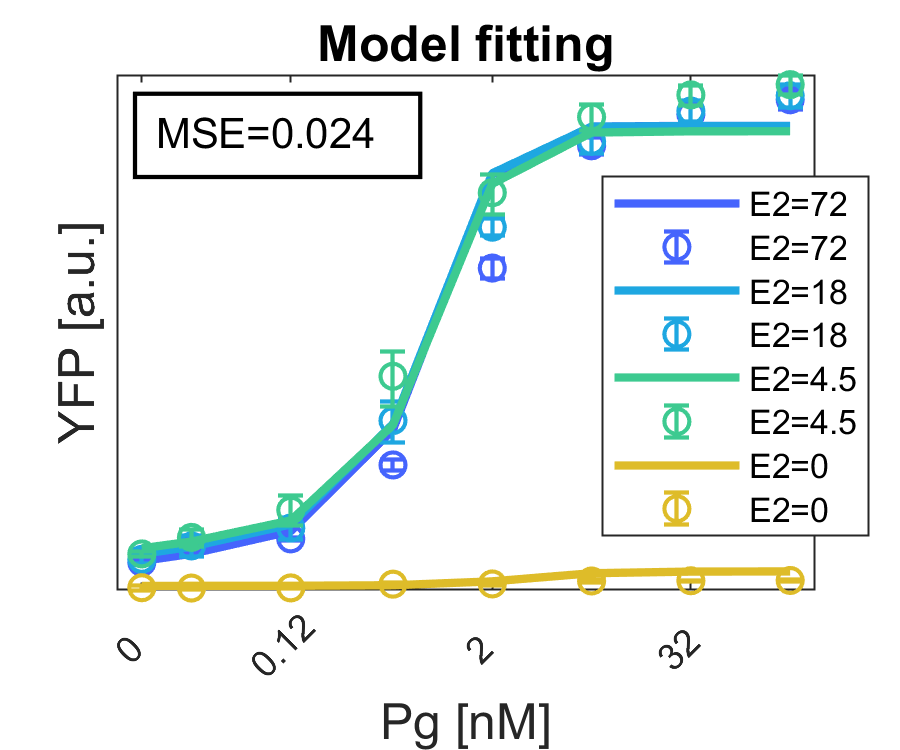
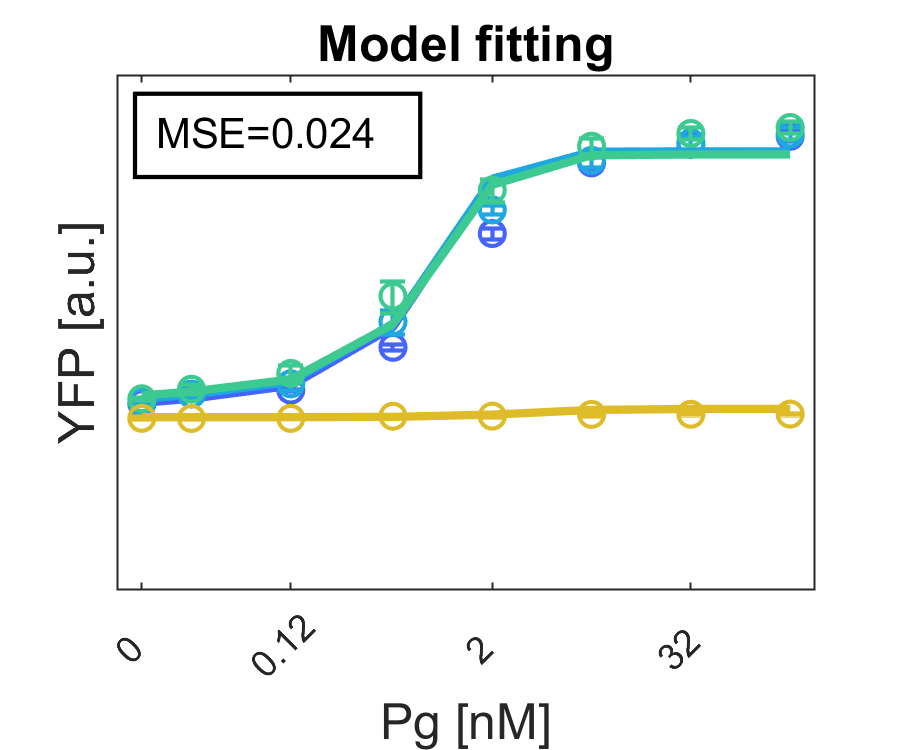
Extra figures
Parameter effect on dose response predictions.

Changed region(s): [[0.1244, 0.092, 0.9644, 0.828]]

diff --git a/FigModel_01.m b/FigModel_01.m
@@ -1,5 +1,5 @@
 clear
-load('C:\Users\mgsch\Desktop\MRW_SimpleModel_v02_h37AB.mat')
+load('MRW_SimpleModel_v02_h37AB.mat')
 
 %% Parameters & model
 [a b] = sort(minE);
@@ -28,7 +28,7 @@ end
         title(cat(2,'Model fitting'),'FontSize',12)
 %         legend('location','southeast','FontSize',12)
         xlim([min(Hi)-0.5 max(Hi)+0.5])
-%         ylim([0.005 10])
+        ylim([0.005 2])
         set(gca,'YScale','log','YGrid','on',...
             'YTick','',...
             'XTick',Hi([length(p.A_H):-2:1]),...
@@ -40,3 +40,82 @@ end
             num2str(FN_FitError(p,M,D*p.nM)/(size(D,1)*size(D,2)),2))},...
             'FitBoxToText','on','LineWidth',1,'BackgroundColor',[1 1 1],'FontSize',10);
         print(gcf,'RAW_FigModel01','-dpng','-r300')
+clear i fig C Hi
+
+%% Figure -- Parameter effect
+fig = figure();
+fig.Units = 'inches';
+fig.PaperPosition = [0 0 16 8];
+fig.Position = fig.PaperPosition;
+Hi = log2(p.A_H); Hi(length(p.A_H)) = Hi(length(Hi)-1) - 1;
+C = colormap('parula');
+delta = 2.^[-1,1];
+for j1 = 1:2
+    for j2 = 1:length(f)
+        p.(f(j2).par) = p.(f(j2).par)*delta(j1);
+        y = FN_SS_SimpleModel_v02(p);
+        
+        subplot(2,length(f),j2+(6*(j1-1)))
+        hold on;
+        for i = 1:length(p.D_H)
+            plot(Hi,y(i,:)/p.nM,'LineWidth',2,...
+                'DisplayName',cat(2,'E2=',num2str(p.D_H(i))),'Color',C(i*50,:))
+            errorbar(Hi,D(i,:),Dsd(i,:),'LineWidth',1,'LineStyle','none','Marker','o',...
+                'DisplayName',cat(2,'E2=',num2str(p.D_H(i))),'Color',C(i*50,:))
+        end
+                xlabel('Pg [nM]','FontSize',12)
+                ylabel('YFP [a.u.]','FontSize',12)
+                title(cat(2,f(j2).par,' x ',num2str(delta(j1),2),' (MSE=',...
+                    num2str(FN_FitError(p,M,D*p.nM)/(size(D,1)*size(D,2)),2),')'),...
+                    'FontSize',12)
+        %         legend('location','southeast','FontSize',12)
+                xlim([min(Hi)-0.5 max(Hi)+0.5])
+                ylim([0.005 2])
+                set(gca,'YScale','log','YGrid','on',...
+                    'YTick','',...
+                    'XTick',Hi([length(p.A_H):-2:1]),...
+                    'XTickLabel',p.A_H([length(p.A_H):-2:1]),...
+                    'XTickLabelRotation',45)
+                box on
+                
+        p.(f(j2).par) = p.(f(j2).par)/delta(j1);
+    end
+end
+print(gcf,'RAW_FigModel01_ParEffect','-dpng','-r300')
+clear i j1 j2 fig C Hi delta
+        
+%%
+fig = figure();
+fig.Units = 'inches';
+fig.PaperPosition = [0 0 3 2.5];
+fig.Position = fig.PaperPosition;
+Hi = log2(p.A_H); Hi(length(p.A_H)) = Hi(length(Hi)-1) - 1;
+C = colormap('parula');
+
+j = 5; delta = 0.25;
+p.(f(j).par) = p.(f(j).par)*delta;
+y = FN_SS_SimpleModel_v02(p);
+
+hold on;
+for i = 1:length(p.D_H)
+    plot(Hi,y(i,:)/p.nM,'LineWidth',2,...
+        'DisplayName',cat(2,'E2=',num2str(p.D_H(i))),'Color',C(i*50,:))
+    errorbar(Hi,D(i,:),Dsd(i,:),'LineWidth',1,'LineStyle','none','Marker','o',...
+        'DisplayName',cat(2,'E2=',num2str(p.D_H(i))),'Color',C(i*50,:))
+end
+        xlabel('Pg [nM]','FontSize',12)
+        ylabel('YFP [a.u.]','FontSize',12)
+        title(cat(2,f(j).par,' x ',num2str(delta,2),' (MSE=',...
+            num2str(FN_FitError(p,M,D*p.nM)/(size(D,1)*size(D,2)),2),')'),...
+            'FontSize',12)
+%         legend('location','southeast','FontSize',12)
+        xlim([min(Hi)-0.5 max(Hi)+0.5])
+        ylim([0.005 2])
+        set(gca,'YScale','log','YGrid','on',...
+            'YTick','',...
+            'XTick',Hi([length(p.A_H):-2:1]),...
+            'XTickLabel',p.A_H([length(p.A_H):-2:1]),...
+            'XTickLabelRotation',45)
+        box on
+
+p.(f(j).par) = p.(f(j).par)/delta;
